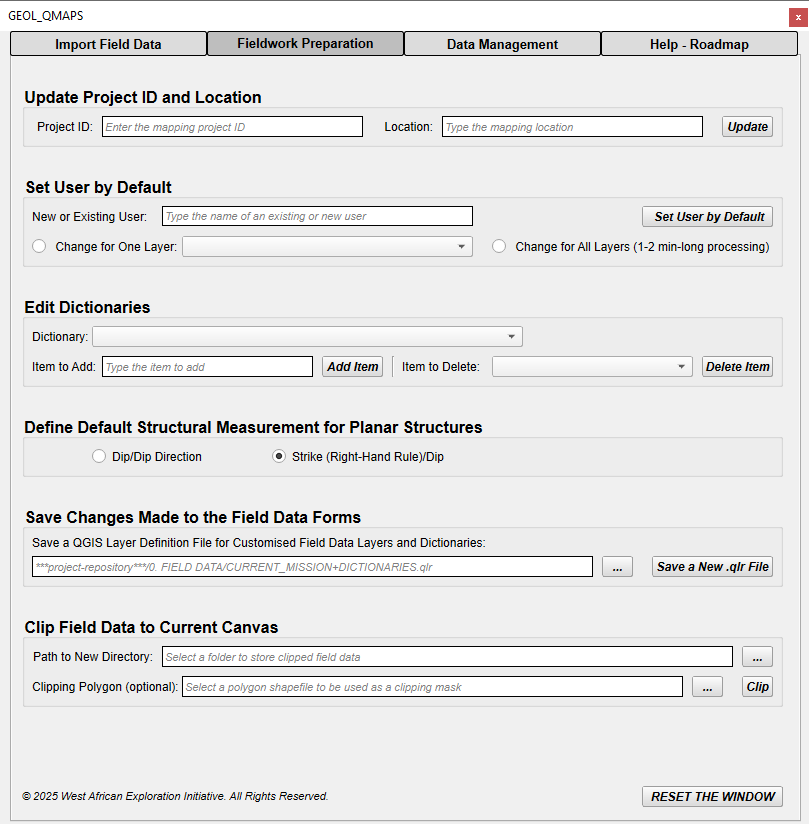
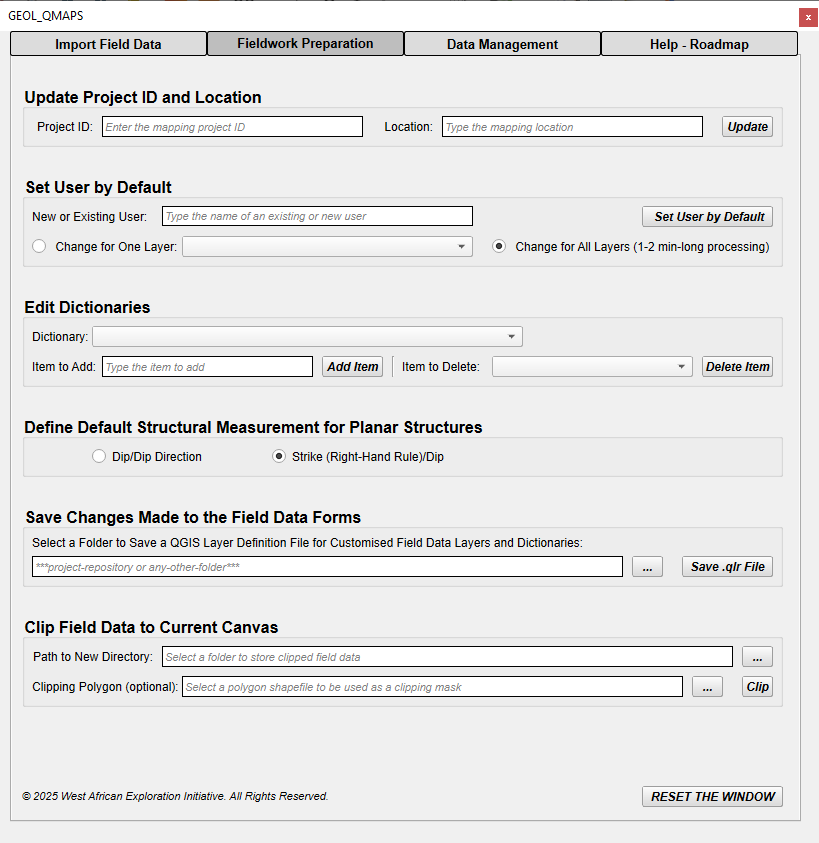
Add files via upload
Updated links to the latest version of the QGIS template on Zenodo.
Updated Road Map
Updated screenshots for the README file (User guide)

diff --git a/GEOL_QMAPS.py b/GEOL_QMAPS.py
@@ -510,7 +510,7 @@ class GEOL_QMAPS:
             and template_version[1] < plugin_version[1]
         ):
             self.iface.messageBar().pushMessage(
-                "WARNING: Plugin {} newer than Template {}, uncertain behaviour! You can get the latest template <a href='https://zenodo.org/records/13374088'>here</a>".format(
+                "Plugin {} newer than Template {}, uncertain behaviour! You can get the latest template <a href='https://doi.org/10.5281/zenodo.15099095'>here</a>".format(
                     pv, tv
                 ),
                 level=Qgis.Warning,
@@ -738,7 +738,7 @@ class GEOL_QMAPS:
                     #  Connection to the Zenodo repository for the corresponding template release:
                     self.dlg.pushButton_34.clicked.connect(
                         lambda: QDesktopServices.openUrl(
-                            QUrl("https://doi.org/10.5281/zenodo.15067027")
+                            QUrl("https://doi.org/10.5281/zenodo.15099095")
                         )
                     )
 
@@ -833,7 +833,7 @@ class GEOL_QMAPS:
         else:
 
             self.iface.messageBar().pushMessage(
-                "ERROR: A Project based on a GEOL-QMAPS Template should be loaded before using this plugin, you can get the template <a href='https://zenodo.org/records/13374088'>here</a>",
+                "ERROR: A Project based on a GEOL-QMAPS Template should be loaded before using this plugin, you can get the template <a href='https://doi.org/10.5281/zenodo.15099095'>here</a>",
                 level=Qgis.Critical,
                 duration=45,
             )
@@ -4990,10 +4990,11 @@ class GEOL_QMAPS:
             [target_group],
         )
         self.iface.messageBar().pushMessage(
-            f"Layer Definition style file exported as {self.mynormpath(self.dlg.lineEdit_18.text() + "/CURRENT_MISSION-EXISTING_FIELD_DATABASE-DICTIONARIES.qlr")}",
+            f"Layer Definition style file exported as {self.mynormpath(self.dlg.lineEdit_18.text() + "/CURRENT_MISSION-EXISTING_FIELD_DATABASE-DICTIONARIES.qlr.")}",
             level=Qgis.Success,
             duration=45,
         )
+        self.dlg.lineEdit_18.clear()
         return qlr_file
 
 
